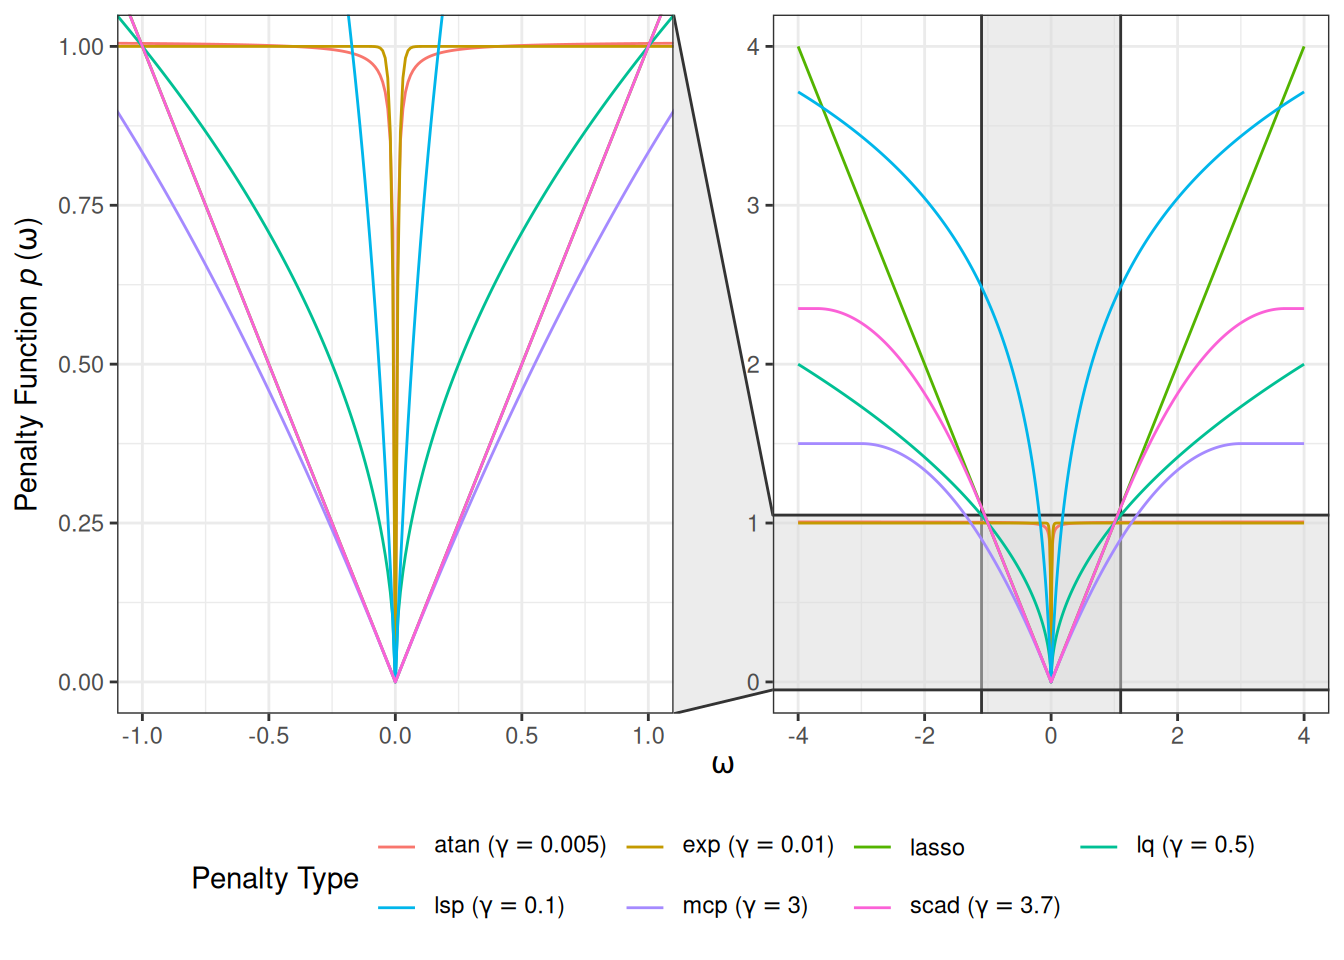
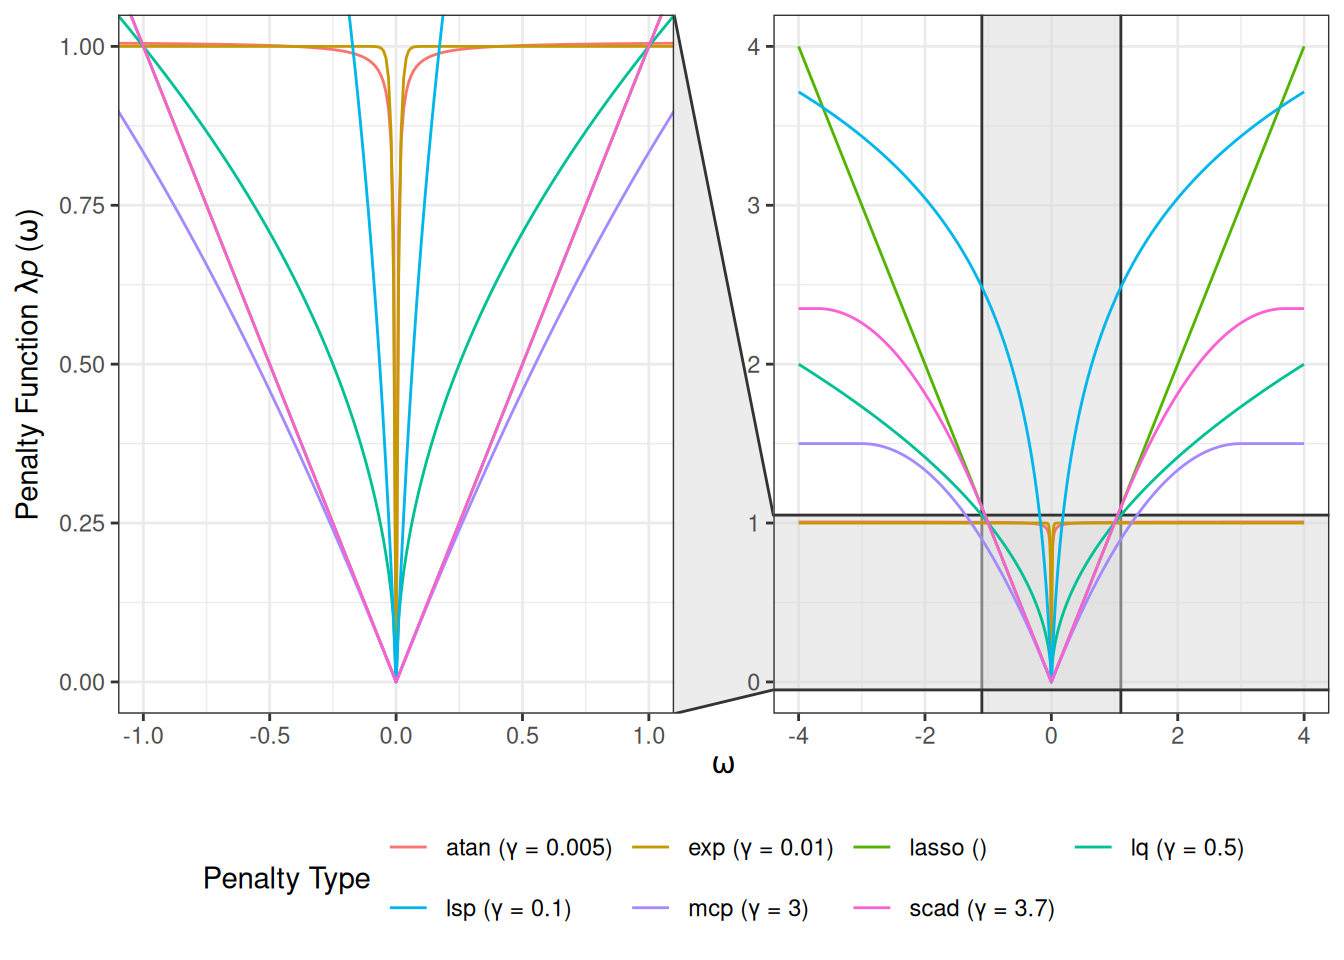
Deploying to gh-pages from @ Carol-seven/grasps@8112917586fde62c4a07f5451ebd9e38f58bc6a8 🚀

diff --git a/articles/pen_est.html b/articles/pen_est.html
@@ -221,8 +221,20 @@ P^\text{grp}_\gamma(\Omega)
 
 <section class="level2"><h2 id="illustrative-visualization">Illustrative Visualization<a class="anchor" aria-label="anchor" href="#illustrative-visualization"></a>
 </h2>
-<p>Figure 1 illustrates a comparison of various penalty functions <math display="inline" xmlns="http://www.w3.org/1998/Math/MathML"><semantics><mrow><mi>λ</mi><mi>p</mi><mrow><mo stretchy="true" form="prefix">(</mo><mi>ω</mi><mo stretchy="true" form="postfix">)</mo></mrow></mrow><annotation encoding="application/x-tex">\lambda p(\omega)</annotation></semantics></math> evaluated over a range of <math display="inline" xmlns="http://www.w3.org/1998/Math/MathML"><semantics><mi>ω</mi><annotation encoding="application/x-tex">\omega</annotation></semantics></math> values. The main panel (right) provides a wider view of the penalty functions’ behavior for larger <math display="inline" xmlns="http://www.w3.org/1998/Math/MathML"><semantics><mrow><mo stretchy="false" form="postfix">|</mo><mi>ω</mi><mo stretchy="false" form="postfix">|</mo></mrow><annotation encoding="application/x-tex">\vert\omega\vert</annotation></semantics></math>, while the inset panel (left) magnifies the region near zero <math display="inline" xmlns="http://www.w3.org/1998/Math/MathML"><semantics><mrow><mo stretchy="true" form="prefix">[</mo><mi>−</mi><mn>1</mn><mo>,</mo><mn>1</mn><mo stretchy="true" form="postfix">]</mo></mrow><annotation encoding="application/x-tex">[-1, 1]</annotation></semantics></math>.</p>
+<p><a href="#fig-pen" class="quarto-xref">Figure 1</a> illustrates a comparison of various penalty functions <math display="inline" xmlns="http://www.w3.org/1998/Math/MathML"><semantics><mrow><mi>λ</mi><mi>p</mi><mrow><mo stretchy="true" form="prefix">(</mo><mi>ω</mi><mo stretchy="true" form="postfix">)</mo></mrow></mrow><annotation encoding="application/x-tex">\lambda p(\omega)</annotation></semantics></math> evaluated over a range of <math display="inline" xmlns="http://www.w3.org/1998/Math/MathML"><semantics><mi>ω</mi><annotation encoding="application/x-tex">\omega</annotation></semantics></math> values. The main panel (right) provides a wider view of the penalty functions’ behavior for larger <math display="inline" xmlns="http://www.w3.org/1998/Math/MathML"><semantics><mrow><mo stretchy="false" form="postfix">|</mo><mi>ω</mi><mo stretchy="false" form="postfix">|</mo></mrow><annotation encoding="application/x-tex">\vert\omega\vert</annotation></semantics></math>, while the inset panel (left) magnifies the region near zero <math display="inline" xmlns="http://www.w3.org/1998/Math/MathML"><semantics><mrow><mo stretchy="true" form="prefix">[</mo><mi>−</mi><mn>1</mn><mo>,</mo><mn>1</mn><mo stretchy="true" form="postfix">]</mo></mrow><annotation encoding="application/x-tex">[-1, 1]</annotation></semantics></math>.</p>
+<div id="fig-pen" class="quarto-float quarto-figure quarto-figure-center">
+<figure class="quarto-float quarto-float-fig"><div aria-describedby="fig-pen-caption-0ceaefa1-69ba-4598-a22c-09a6ac19f8ca">
 <div class="cell" data-layout-align="center">
+<div class="sourceCode cell-code" id="cb1"><pre class="downlit sourceCode r">
+<code class="sourceCode R"><span><span class="kw"><a href="https://rdrr.io/r/base/library.html" class="external-link">library</a></span><span class="op">(</span><span class="va"><a href="https://github.com/Carol-seven/grasps" class="external-link">grasps</a></span><span class="op">)</span> <span class="co">## for penalty computation</span></span>
+<span><span class="kw"><a href="https://rdrr.io/r/base/library.html" class="external-link">library</a></span><span class="op">(</span><span class="va"><a href="https://ggplot2.tidyverse.org" class="external-link">ggplot2</a></span><span class="op">)</span> <span class="co">## for visualization</span></span>
+<span></span>
+<span><span class="va">omegas</span> <span class="op">&lt;-</span> <span class="fu"><a href="https://rdrr.io/r/base/seq.html" class="external-link">seq</a></span><span class="op">(</span><span class="op">-</span><span class="fl">4</span>, <span class="fl">4</span>, by <span class="op">=</span> <span class="fl">0.01</span><span class="op">)</span></span>
+<span><span class="va">penalties</span> <span class="op">&lt;-</span> <span class="fu"><a href="https://rdrr.io/r/base/c.html" class="external-link">c</a></span><span class="op">(</span><span class="st">"atan"</span>, <span class="st">"exp"</span>, <span class="st">"lasso"</span>, <span class="st">"lq"</span>, <span class="st">"lsp"</span>, <span class="st">"mcp"</span>, <span class="st">"scad"</span><span class="op">)</span></span>
+<span></span>
+<span><span class="va">df</span> <span class="op">&lt;-</span> <span class="fu">grasps</span><span class="fu">::</span><span class="fu"><a href="../reference/pen.html">pen</a></span><span class="op">(</span><span class="va">omegas</span>, <span class="va">penalties</span>, lambda <span class="op">=</span> <span class="fl">1</span><span class="op">)</span></span>
+<span><span class="fu"><a href="https://rdrr.io/r/graphics/plot.default.html" class="external-link">plot</a></span><span class="op">(</span><span class="va">df</span>, xlim <span class="op">=</span> <span class="fu"><a href="https://rdrr.io/r/base/c.html" class="external-link">c</a></span><span class="op">(</span><span class="op">-</span><span class="fl">1</span>, <span class="fl">1</span><span class="op">)</span>, ylim <span class="op">=</span> <span class="fu"><a href="https://rdrr.io/r/base/c.html" class="external-link">c</a></span><span class="op">(</span><span class="fl">0</span>, <span class="fl">1</span><span class="op">)</span>, zoom.size <span class="op">=</span> <span class="fl">1</span><span class="op">)</span> <span class="op">+</span></span>
+<span>  <span class="fu"><a href="https://ggplot2.tidyverse.org/reference/guides.html" class="external-link">guides</a></span><span class="op">(</span>color <span class="op">=</span> <span class="fu"><a href="https://ggplot2.tidyverse.org/reference/guide_legend.html" class="external-link">guide_legend</a></span><span class="op">(</span>nrow <span class="op">=</span> <span class="fl">2</span>, byrow <span class="op">=</span> <span class="cn">TRUE</span><span class="op">)</span><span class="op">)</span></span></code></pre></div>
 <div class="cell-output-display">
 <div class="quarto-figure quarto-figure-center">
 <figure><p><img src="pen_est_files/figure-html/pen-1.png" width="672"></p>
@@ -230,14 +242,51 @@ P^\text{grp}_\gamma(\Omega)
 </div>
 </div>
 </div>
-<p>Figure 2 displays the derivative function <math display="inline" xmlns="http://www.w3.org/1998/Math/MathML"><semantics><mrow><msup><mi>p</mi><mi>′</mi></msup><mrow><mo stretchy="true" form="prefix">(</mo><mi>ω</mi><mo stretchy="true" form="postfix">)</mo></mrow></mrow><annotation encoding="application/x-tex">p^\prime(\omega)</annotation></semantics></math> associated with a range of penalty types. The Lasso exhibits a constant derivative, corresponding to uniform shrinkage. For MCP and SCAD, the derivatives are piecewise: initially equal to the Lasso derivative, then decreasing over an intermediate region, and eventually dropping to zero, indicating that large <math display="inline" xmlns="http://www.w3.org/1998/Math/MathML"><semantics><mrow><mo stretchy="false" form="postfix">|</mo><mi>ω</mi><mo stretchy="false" form="postfix">|</mo></mrow><annotation encoding="application/x-tex">\vert\omega\vert</annotation></semantics></math> receive no shrinkage. Other non-convex penalties show smoothly diminishing derivatives as <math display="inline" xmlns="http://www.w3.org/1998/Math/MathML"><semantics><mrow><mo stretchy="false" form="postfix">|</mo><mi>ω</mi><mo stretchy="false" form="postfix">|</mo></mrow><annotation encoding="application/x-tex">\vert\omega\vert</annotation></semantics></math> increases, reflecting their tendency to shrink small <math display="inline" xmlns="http://www.w3.org/1998/Math/MathML"><semantics><mrow><mo stretchy="false" form="postfix">|</mo><mi>ω</mi><mo stretchy="false" form="postfix">|</mo></mrow><annotation encoding="application/x-tex">\vert\omega\vert</annotation></semantics></math> strongly while exerting little to no shrinkage on large ones.</p>
+</div>
+<figcaption class="quarto-float-caption-bottom quarto-float-caption quarto-float-fig quarto-uncaptioned" id="fig-pen-caption-0ceaefa1-69ba-4598-a22c-09a6ac19f8ca">
+Figure 1
+</figcaption></figure>
+</div>
+<p><a href="#fig-deriv" class="quarto-xref">Figure 2</a> displays the derivative function <math display="inline" xmlns="http://www.w3.org/1998/Math/MathML"><semantics><mrow><msup><mi>p</mi><mi>′</mi></msup><mrow><mo stretchy="true" form="prefix">(</mo><mi>ω</mi><mo stretchy="true" form="postfix">)</mo></mrow></mrow><annotation encoding="application/x-tex">p^\prime(\omega)</annotation></semantics></math> associated with a range of penalty types. The Lasso exhibits a constant derivative, corresponding to uniform shrinkage. For MCP and SCAD, the derivatives are piecewise: initially equal to the Lasso derivative, then decreasing over an intermediate region, and eventually dropping to zero, indicating that large <math display="inline" xmlns="http://www.w3.org/1998/Math/MathML"><semantics><mrow><mo stretchy="false" form="postfix">|</mo><mi>ω</mi><mo stretchy="false" form="postfix">|</mo></mrow><annotation encoding="application/x-tex">\vert\omega\vert</annotation></semantics></math> receive no shrinkage. Other non-convex penalties show smoothly diminishing derivatives as <math display="inline" xmlns="http://www.w3.org/1998/Math/MathML"><semantics><mrow><mo stretchy="false" form="postfix">|</mo><mi>ω</mi><mo stretchy="false" form="postfix">|</mo></mrow><annotation encoding="application/x-tex">\vert\omega\vert</annotation></semantics></math> increases, reflecting their tendency to shrink small <math display="inline" xmlns="http://www.w3.org/1998/Math/MathML"><semantics><mrow><mo stretchy="false" form="postfix">|</mo><mi>ω</mi><mo stretchy="false" form="postfix">|</mo></mrow><annotation encoding="application/x-tex">\vert\omega\vert</annotation></semantics></math> strongly while exerting little to no shrinkage on large ones.</p>
+<div id="fig-deriv" class="quarto-float quarto-figure quarto-figure-center">
+<figure class="quarto-float quarto-float-fig"><div aria-describedby="fig-deriv-caption-0ceaefa1-69ba-4598-a22c-09a6ac19f8ca">
 <div class="cell" data-layout-align="center">
+<div class="sourceCode cell-code" id="cb2"><pre class="downlit sourceCode r">
+<code class="sourceCode R"><span><span class="va">df</span> <span class="op">&lt;-</span> <span class="fu">grasps</span><span class="fu">::</span><span class="fu"><a href="../reference/deriv.html">deriv</a></span><span class="op">(</span><span class="va">omegas</span>, <span class="va">penalties</span>, lambda <span class="op">=</span> <span class="fl">1</span><span class="op">)</span></span>
+<span><span class="fu"><a href="https://ggplot2.tidyverse.org/reference/ggplot.html" class="external-link">ggplot</a></span><span class="op">(</span><span class="va">df</span>, <span class="fu"><a href="https://ggplot2.tidyverse.org/reference/aes.html" class="external-link">aes</a></span><span class="op">(</span>x <span class="op">=</span> <span class="va">omega</span>, y <span class="op">=</span> <span class="va">value</span>, color <span class="op">=</span> <span class="va">penalty</span><span class="op">)</span><span class="op">)</span> <span class="op">+</span></span>
+<span>  <span class="fu"><a href="https://ggplot2.tidyverse.org/reference/geom_path.html" class="external-link">geom_line</a></span><span class="op">(</span><span class="op">)</span> <span class="op">+</span></span>
+<span>  <span class="fu"><a href="https://ggplot2.tidyverse.org/reference/scale_continuous.html" class="external-link">scale_x_continuous</a></span><span class="op">(</span>limits <span class="op">=</span> <span class="fu"><a href="https://rdrr.io/r/base/c.html" class="external-link">c</a></span><span class="op">(</span><span class="fl">0</span>, <span class="fl">4</span><span class="op">)</span><span class="op">)</span> <span class="op">+</span></span>
+<span>  <span class="fu"><a href="https://ggplot2.tidyverse.org/reference/scale_continuous.html" class="external-link">scale_y_continuous</a></span><span class="op">(</span>limits <span class="op">=</span> <span class="fu"><a href="https://rdrr.io/r/base/c.html" class="external-link">c</a></span><span class="op">(</span><span class="fl">0</span>, <span class="fl">1.5</span><span class="op">)</span><span class="op">)</span> <span class="op">+</span></span>
+<span>  <span class="fu"><a href="https://ggplot2.tidyverse.org/reference/labs.html" class="external-link">xlab</a></span><span class="op">(</span><span class="fu"><a href="https://rdrr.io/r/base/expression.html" class="external-link">expression</a></span><span class="op">(</span><span class="fu">italic</span><span class="op">(</span><span class="va">omega</span><span class="op">)</span><span class="op">)</span><span class="op">)</span> <span class="op">+</span></span>
+<span>  <span class="fu"><a href="https://ggplot2.tidyverse.org/reference/labs.html" class="external-link">ylab</a></span><span class="op">(</span><span class="fu"><a href="https://rdrr.io/r/base/expression.html" class="external-link">expression</a></span><span class="op">(</span><span class="st">"Derivative Function"</span> <span class="op">~</span> <span class="fu">italic</span><span class="op">(</span><span class="va">p</span><span class="op">)</span> <span class="op">*</span> <span class="st">"'("</span> <span class="op">*</span> <span class="fu">italic</span><span class="op">(</span><span class="va">omega</span><span class="op">)</span> <span class="op">*</span> <span class="st">")"</span><span class="op">)</span><span class="op">)</span> <span class="op">+</span></span>
+<span>  <span class="fu"><a href="https://ggplot2.tidyverse.org/reference/scale_colour_discrete.html" class="external-link">scale_color_discrete</a></span><span class="op">(</span>name <span class="op">=</span> <span class="st">"Penalty Type"</span>,</span>
+<span>                       labels <span class="op">=</span> <span class="fu"><a href="https://rdrr.io/r/base/c.html" class="external-link">c</a></span><span class="op">(</span><span class="fu"><a href="https://rdrr.io/r/base/expression.html" class="external-link">expression</a></span><span class="op">(</span><span class="va">atan</span> <span class="op">~</span> <span class="st">"("</span> <span class="op">*</span> <span class="va">gamma</span> <span class="op">==</span> <span class="fl">0.005</span> <span class="op">*</span> <span class="st">")"</span><span class="op">)</span>,</span>
+<span>                                  <span class="fu"><a href="https://rdrr.io/r/base/expression.html" class="external-link">expression</a></span><span class="op">(</span><span class="va">exp</span> <span class="op">~</span> <span class="st">"("</span> <span class="op">*</span> <span class="va">gamma</span> <span class="op">==</span> <span class="fl">0.01</span> <span class="op">*</span> <span class="st">")"</span><span class="op">)</span>,</span>
+<span>                                  <span class="st">"lasso"</span>,</span>
+<span>                                  <span class="fu"><a href="https://rdrr.io/r/base/expression.html" class="external-link">expression</a></span><span class="op">(</span><span class="va">lq</span> <span class="op">~</span> <span class="st">"("</span> <span class="op">*</span> <span class="va">gamma</span> <span class="op">==</span> <span class="fl">0.5</span> <span class="op">*</span> <span class="st">")"</span><span class="op">)</span>,</span>
+<span>                                  <span class="fu"><a href="https://rdrr.io/r/base/expression.html" class="external-link">expression</a></span><span class="op">(</span><span class="va">lsp</span> <span class="op">~</span> <span class="st">"("</span> <span class="op">*</span> <span class="va">gamma</span> <span class="op">==</span> <span class="fl">0.1</span> <span class="op">*</span> <span class="st">")"</span><span class="op">)</span>,</span>
+<span>                                  <span class="fu"><a href="https://rdrr.io/r/base/expression.html" class="external-link">expression</a></span><span class="op">(</span><span class="va">mcp</span> <span class="op">~</span> <span class="st">"("</span> <span class="op">*</span> <span class="va">gamma</span> <span class="op">==</span> <span class="fl">3</span> <span class="op">*</span> <span class="st">")"</span><span class="op">)</span>,</span>
+<span>                                  <span class="fu"><a href="https://rdrr.io/r/base/expression.html" class="external-link">expression</a></span><span class="op">(</span><span class="va">scad</span> <span class="op">~</span> <span class="st">"("</span> <span class="op">*</span> <span class="va">gamma</span> <span class="op">==</span> <span class="fl">3.7</span> <span class="op">*</span> <span class="st">")"</span><span class="op">)</span><span class="op">)</span><span class="op">)</span> <span class="op">+</span></span>
+<span>  <span class="fu"><a href="https://ggplot2.tidyverse.org/reference/guides.html" class="external-link">guides</a></span><span class="op">(</span>color <span class="op">=</span> <span class="fu"><a href="https://ggplot2.tidyverse.org/reference/guide_legend.html" class="external-link">guide_legend</a></span><span class="op">(</span>nrow <span class="op">=</span> <span class="fl">2</span>, byrow <span class="op">=</span> <span class="cn">TRUE</span><span class="op">)</span><span class="op">)</span> <span class="op">+</span></span>
+<span>  <span class="fu"><a href="https://ggplot2.tidyverse.org/reference/ggtheme.html" class="external-link">theme_bw</a></span><span class="op">(</span><span class="op">)</span> <span class="op">+</span></span>
+<span>  <span class="fu"><a href="https://ggplot2.tidyverse.org/reference/theme.html" class="external-link">theme</a></span><span class="op">(</span>aspect.ratio <span class="op">=</span> <span class="fl">1</span>,</span>
+<span>        legend.position <span class="op">=</span> <span class="st">"bottom"</span><span class="op">)</span></span></code></pre></div>
 <div class="cell-output-display">
 <div class="quarto-figure quarto-figure-center">
 <figure><p><img src="pen_est_files/figure-html/unnamed-chunk-1-1.png" width="672"></p>
 <figcaption>Figure 2: Illustrative penalty derivatives.</figcaption></figure>
 </div>
 </div>
+<div class="sourceCode cell-code" id="cb3"><pre class="downlit sourceCode r">
+<code class="sourceCode R"><span></span>
+<span><span class="co"># pen_plot + deriv_plot +</span></span>
+<span><span class="co">#   plot_layout(widths = c(2.2,1), guides = "collect") &amp;</span></span>
+<span><span class="co">#   theme(legend.position = "bottom")</span></span></code></pre></div>
+</div>
+</div>
+<figcaption class="quarto-float-caption-bottom quarto-float-caption quarto-float-fig quarto-uncaptioned" id="fig-deriv-caption-0ceaefa1-69ba-4598-a22c-09a6ac19f8ca">
+Figure 2
+</figcaption></figure>
 </div>
 </section><section class="level2 unnumbered"><h2 class="unnumbered" id="reference">Reference<a class="anchor" aria-label="anchor" href="#reference"></a>
 </h2>

diff --git a/reference/pen.html b/reference/pen.html
@@ -47,7 +47,7 @@
 
     <div class="section level2">
     <h2 id="ref-usage">Usage<a class="anchor" aria-label="anchor" href="#ref-usage"></a></h2>
-    <div class="sourceCode"><pre class="sourceCode r"><code><span><span class="fu">pen</span><span class="op">(</span><span class="va">omega</span>, <span class="va">penalty</span>, <span class="va">lambda</span>, gamma <span class="op">=</span> <span class="cn">NULL</span><span class="op">)</span></span></code></pre></div>
+    <div class="sourceCode"><pre class="sourceCode r"><code><span><span class="fu">pen</span><span class="op">(</span><span class="va">omega</span>, <span class="va">penalty</span>, <span class="va">lambda</span>, gamma <span class="op">=</span> <span class="cn">NA</span><span class="op">)</span></span></code></pre></div>
     </div>
 
     <div class="section level2">
@@ -79,7 +79,7 @@ Available options include:</p><ol><li><p>"lasso": Least absolute shrinkage and s
 
 
 <dt id="arg-lambda">lambda<a class="anchor" aria-label="anchor" href="#arg-lambda"></a></dt>
-<dd><p>A non-negative scalar or vector of the same length as
+<dd><p>A non-negative scalar or a numeric vector of the same length as
 <code>penalty</code> specifying the regularization parameter.</p></dd>
 
 
@@ -97,7 +97,7 @@ The defaults are:</p><ol><li><p>"atan": 0.005</p></li>
 </dl></div>
     <div class="section level2">
     <h2 id="value">Value<a class="anchor" aria-label="anchor" href="#value"></a></h2>
-    <p>A data frame containing:</p><dl><dt>omega</dt>
+    <p>A data  with S3 class "pen" ocontaining:</p><dl><dt>omega</dt>
 <dd><p>The input <code>omega</code> values.</p></dd>
 
 <dt>penalty</dt>

diff --git a/extra.css b/extra.css
@@ -7,6 +7,10 @@ body {
   justify-content: center;
 }
 
+.caption{
+   text-align: center;
+}
+
 .container {
   max-width: 85%;
 }

diff --git a/articles/pen_est.md b/articles/pen_est.md
@@ -131,29 +131,75 @@ $$\lambda p_{\gamma}\left( \omega_{ij} \right) = \begin{cases}
 
 ## Illustrative Visualization
 
-Figure 1 illustrates a comparison of various penalty functions
-$\lambda p(\omega)$ evaluated over a range of $\omega$ values. The main
-panel (right) provides a wider view of the penalty functions’ behavior
-for larger $|\omega|$, while the inset panel (left) magnifies the region
-near zero $\lbrack-1,1\rbrack$.
+[Figure 1](#fig-pen) illustrates a comparison of various penalty
+functions $\lambda p(\omega)$ evaluated over a range of $\omega$ values.
+The main panel (right) provides a wider view of the penalty functions’
+behavior for larger $|\omega|$, while the inset panel (left) magnifies
+the region near zero $\lbrack-1,1\rbrack$.
+
+``` r
+library(grasps) ## for penalty computation
+library(ggplot2) ## for visualization
+
+omegas <- seq(-4, 4, by = 0.01)
+penalties <- c("atan", "exp", "lasso", "lq", "lsp", "mcp", "scad")
+
+df <- grasps::pen(omegas, penalties, lambda = 1)
+plot(df, xlim = c(-1, 1), ylim = c(0, 1), zoom.size = 1) +
+  guides(color = guide_legend(nrow = 2, byrow = TRUE))
+```
 
 ![](pen_est_files/figure-html/pen-1.png)
 
 Figure 1: Illustrative penalty functions.
 
-Figure 2 displays the derivative function $p^{\prime}(\omega)$
-associated with a range of penalty types. The Lasso exhibits a constant
-derivative, corresponding to uniform shrinkage. For MCP and SCAD, the
-derivatives are piecewise: initially equal to the Lasso derivative, then
-decreasing over an intermediate region, and eventually dropping to zero,
-indicating that large $|\omega|$ receive no shrinkage. Other non-convex
-penalties show smoothly diminishing derivatives as $|\omega|$ increases,
-reflecting their tendency to shrink small $|\omega|$ strongly while
-exerting little to no shrinkage on large ones.
+Figure 1
+
+[Figure 2](#fig-deriv) displays the derivative function
+$p^{\prime}(\omega)$ associated with a range of penalty types. The Lasso
+exhibits a constant derivative, corresponding to uniform shrinkage. For
+MCP and SCAD, the derivatives are piecewise: initially equal to the
+Lasso derivative, then decreasing over an intermediate region, and
+eventually dropping to zero, indicating that large $|\omega|$ receive no
+shrinkage. Other non-convex penalties show smoothly diminishing
+derivatives as $|\omega|$ increases, reflecting their tendency to shrink
+small $|\omega|$ strongly while exerting little to no shrinkage on large
+ones.
+
+``` r
+df <- grasps::deriv(omegas, penalties, lambda = 1)
+ggplot(df, aes(x = omega, y = value, color = penalty)) +
+  geom_line() +
+  scale_x_continuous(limits = c(0, 4)) +
+  scale_y_continuous(limits = c(0, 1.5)) +
+  xlab(expression(italic(omega))) +
+  ylab(expression("Derivative Function" ~ italic(p) * "'(" * italic(omega) * ")")) +
+  scale_color_discrete(name = "Penalty Type",
+                       labels = c(expression(atan ~ "(" * gamma == 0.005 * ")"),
+                                  expression(exp ~ "(" * gamma == 0.01 * ")"),
+                                  "lasso",
+                                  expression(lq ~ "(" * gamma == 0.5 * ")"),
+                                  expression(lsp ~ "(" * gamma == 0.1 * ")"),
+                                  expression(mcp ~ "(" * gamma == 3 * ")"),
+                                  expression(scad ~ "(" * gamma == 3.7 * ")"))) +
+  guides(color = guide_legend(nrow = 2, byrow = TRUE)) +
+  theme_bw() +
+  theme(aspect.ratio = 1,
+        legend.position = "bottom")
+```
 
 ![](pen_est_files/figure-html/unnamed-chunk-1-1.png)
 
 Figure 2: Illustrative penalty derivatives.
+
+``` r
+
+# pen_plot + deriv_plot +
+#   plot_layout(widths = c(2.2,1), guides = "collect") &
+#   theme(legend.position = "bottom")
+```
+
+Figure 2
 
 ## Reference
 

diff --git a/reference/pen.md b/reference/pen.md
@@ -5,7 +5,7 @@ Compute the penalty function.
 ## Usage
 
 ``` r
-pen(omega, penalty, lambda, gamma = NULL)
+pen(omega, penalty, lambda, gamma = NA)
 ```
 
 ## Arguments
@@ -38,8 +38,8 @@ pen(omega, penalty, lambda, gamma = NULL)
 
 - lambda:
 
-  A non-negative scalar or vector of the same length as `penalty`
-  specifying the regularization parameter.
+  A non-negative scalar or a numeric vector of the same length as
+  `penalty` specifying the regularization parameter.
 
 - gamma:
 
@@ -60,7 +60,7 @@ pen(omega, penalty, lambda, gamma = NULL)
 
 ## Value
 
-A data frame containing:
+A data with S3 class "pen" ocontaining:
 
 - omega:
 
